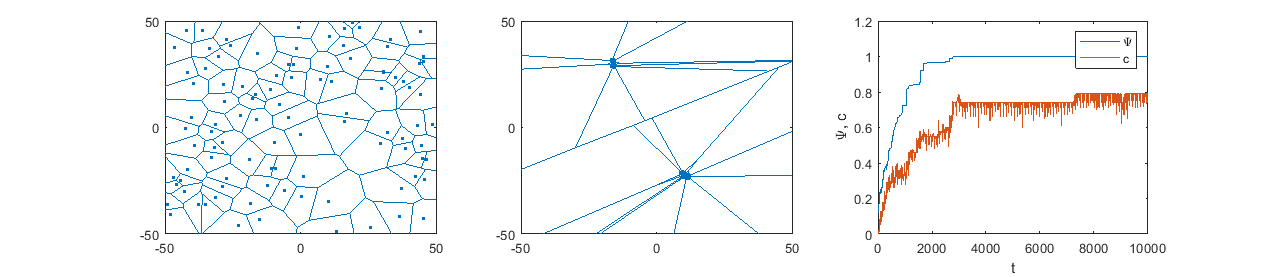
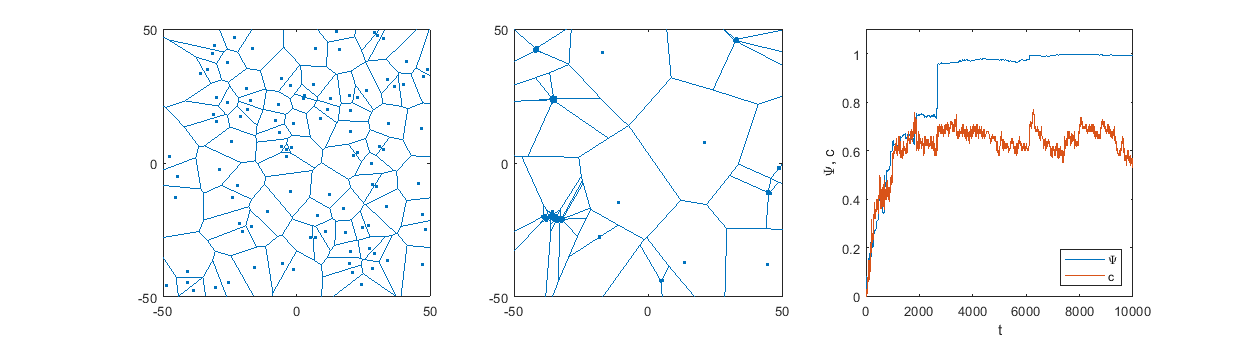
Images

diff --git a/Exercise 8/model.m b/Exercise 8/model.m
@@ -5,7 +5,7 @@ clear;
 N = 100;
 L = 100;
 rho = N/L^2; % density rho = N/L^2
-eta = 0; % Noise
+eta = 0.01; % Noise
 Rf = 1; % Interaction radius radius
 dt = 1;
 v = 1;
@@ -41,9 +41,13 @@ end
 clf
 subplot(1,3,1)
 voronoi(inital_particles(:,1), inital_particles(:,2));
+ylim([-L/2 L/2])
+xlim([-L/2 L/2])
 pbaspect([1 1 1])
 subplot(1,3,2)
 voronoi(particles(:,1), particles(:,2))
+ylim([-L/2 L/2])
+xlim([-L/2 L/2])
 pbaspect([1 1 1])
 subplot(1,3,3)
 plot(1:S, g_align);
